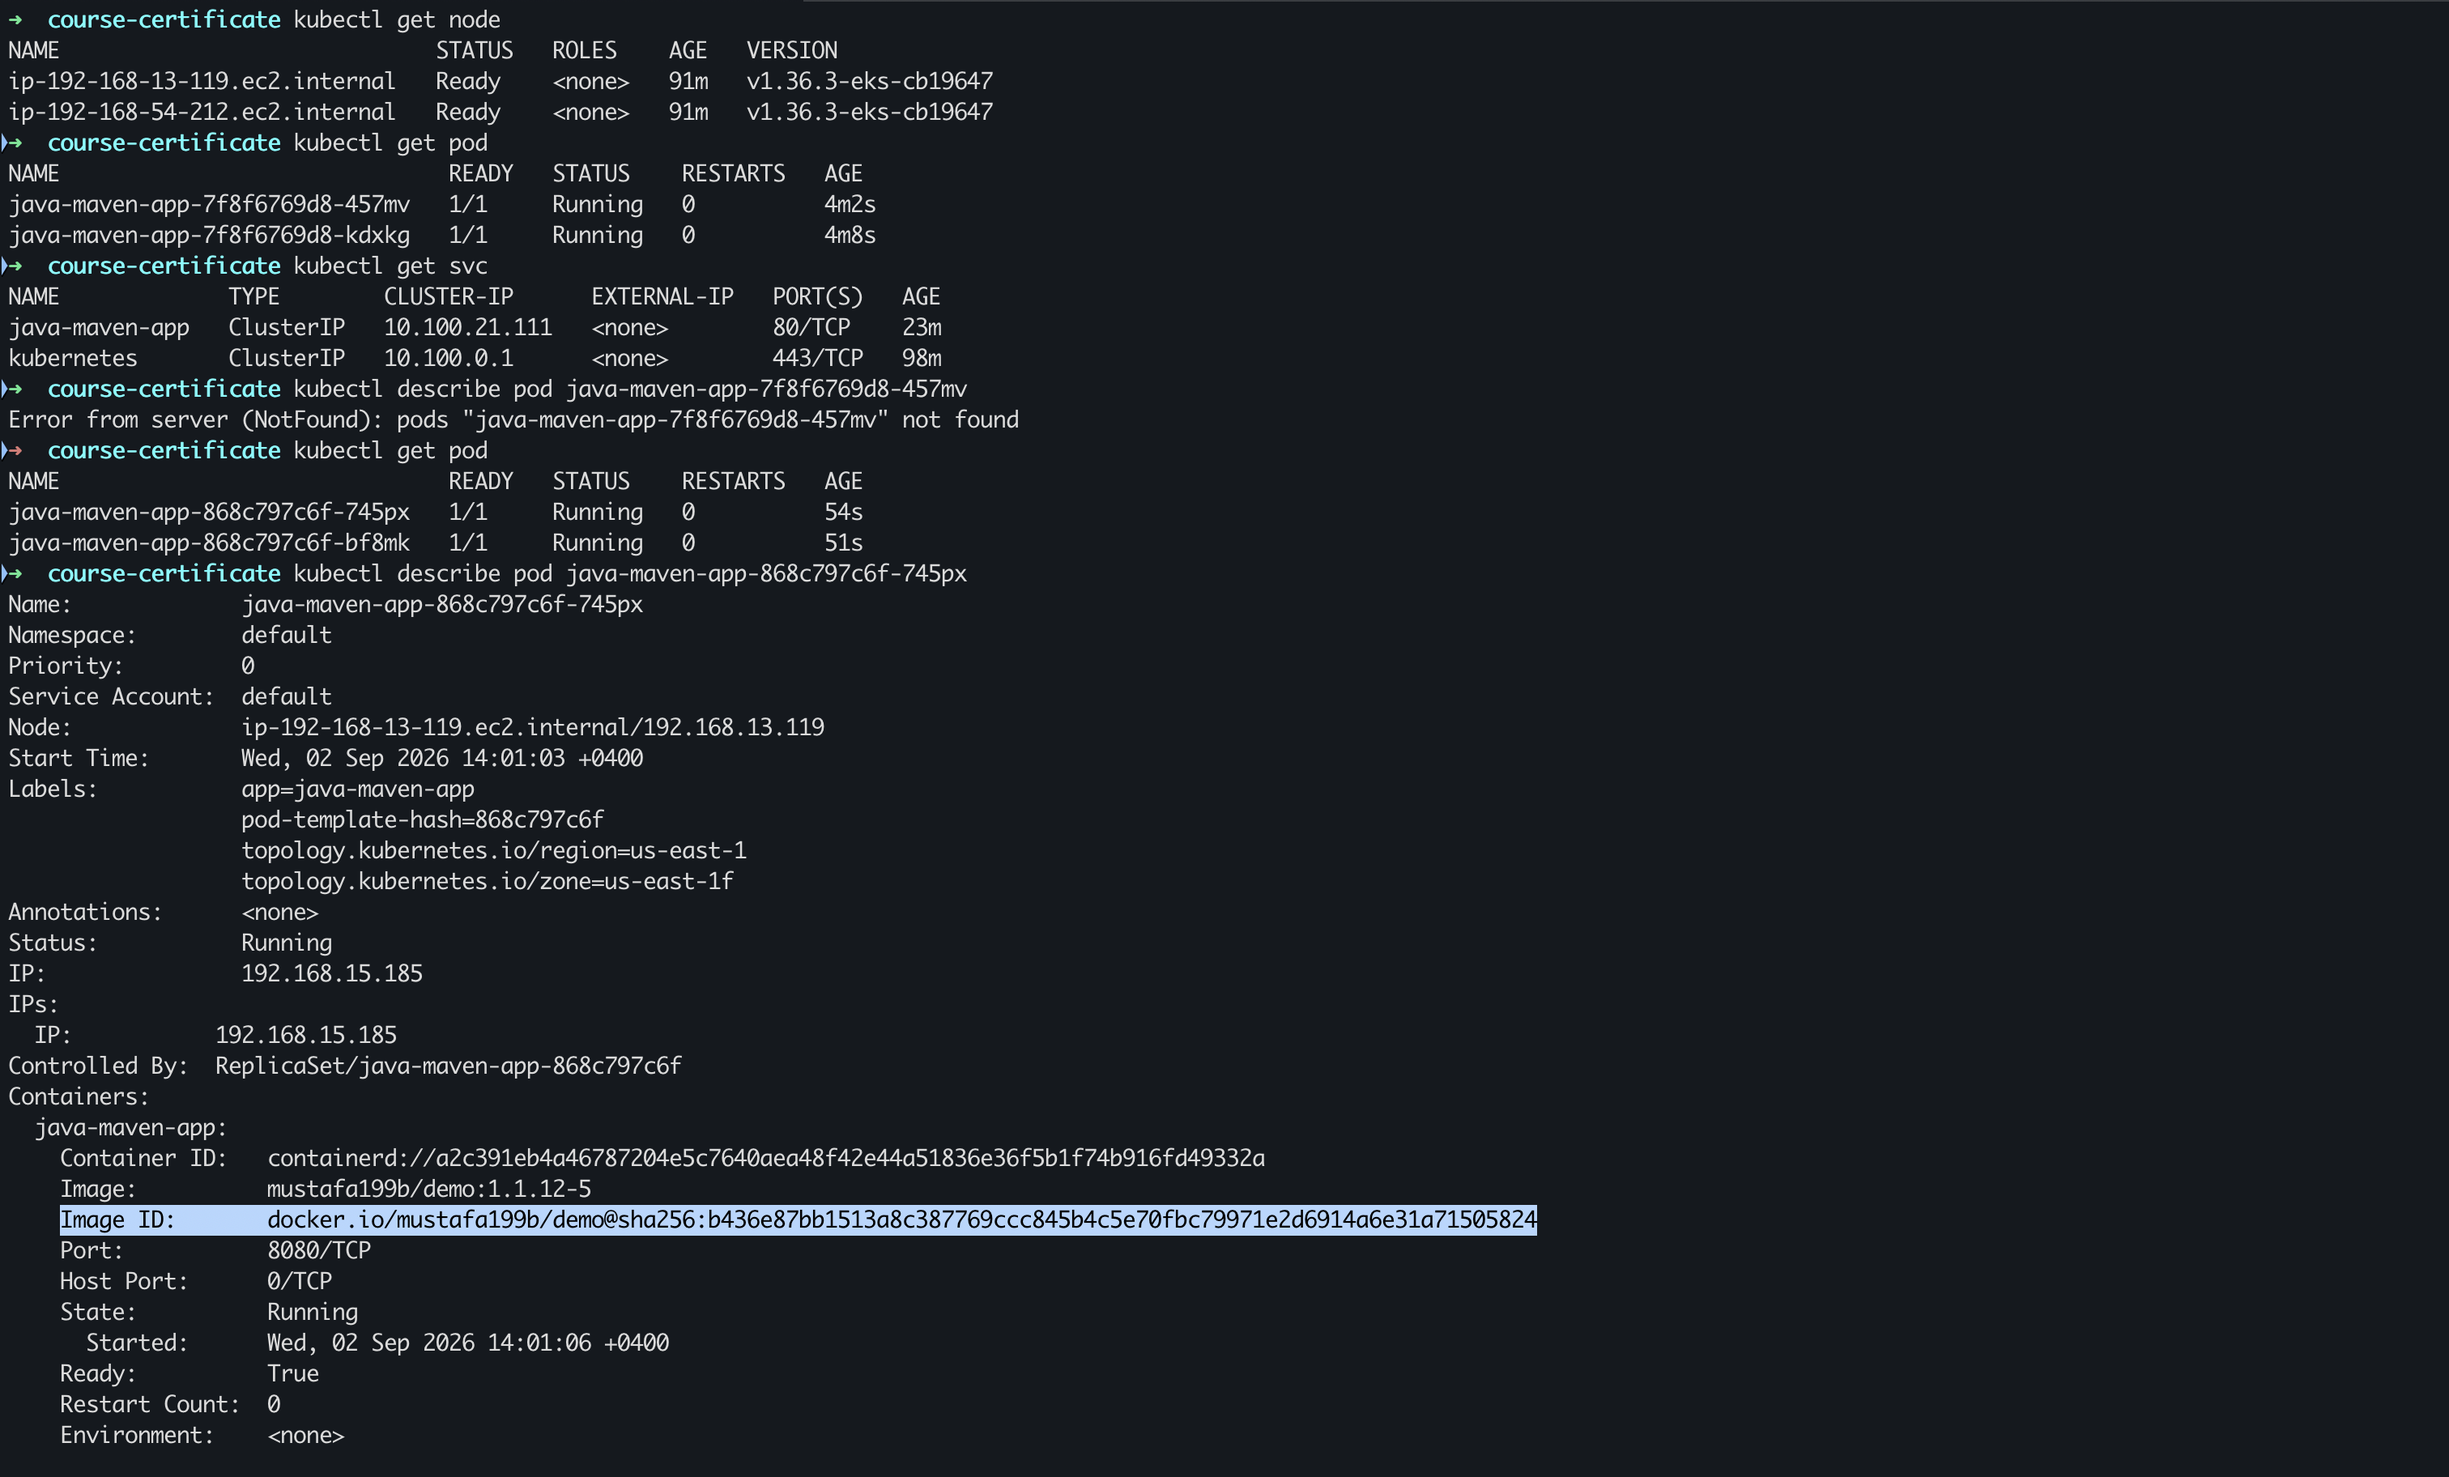
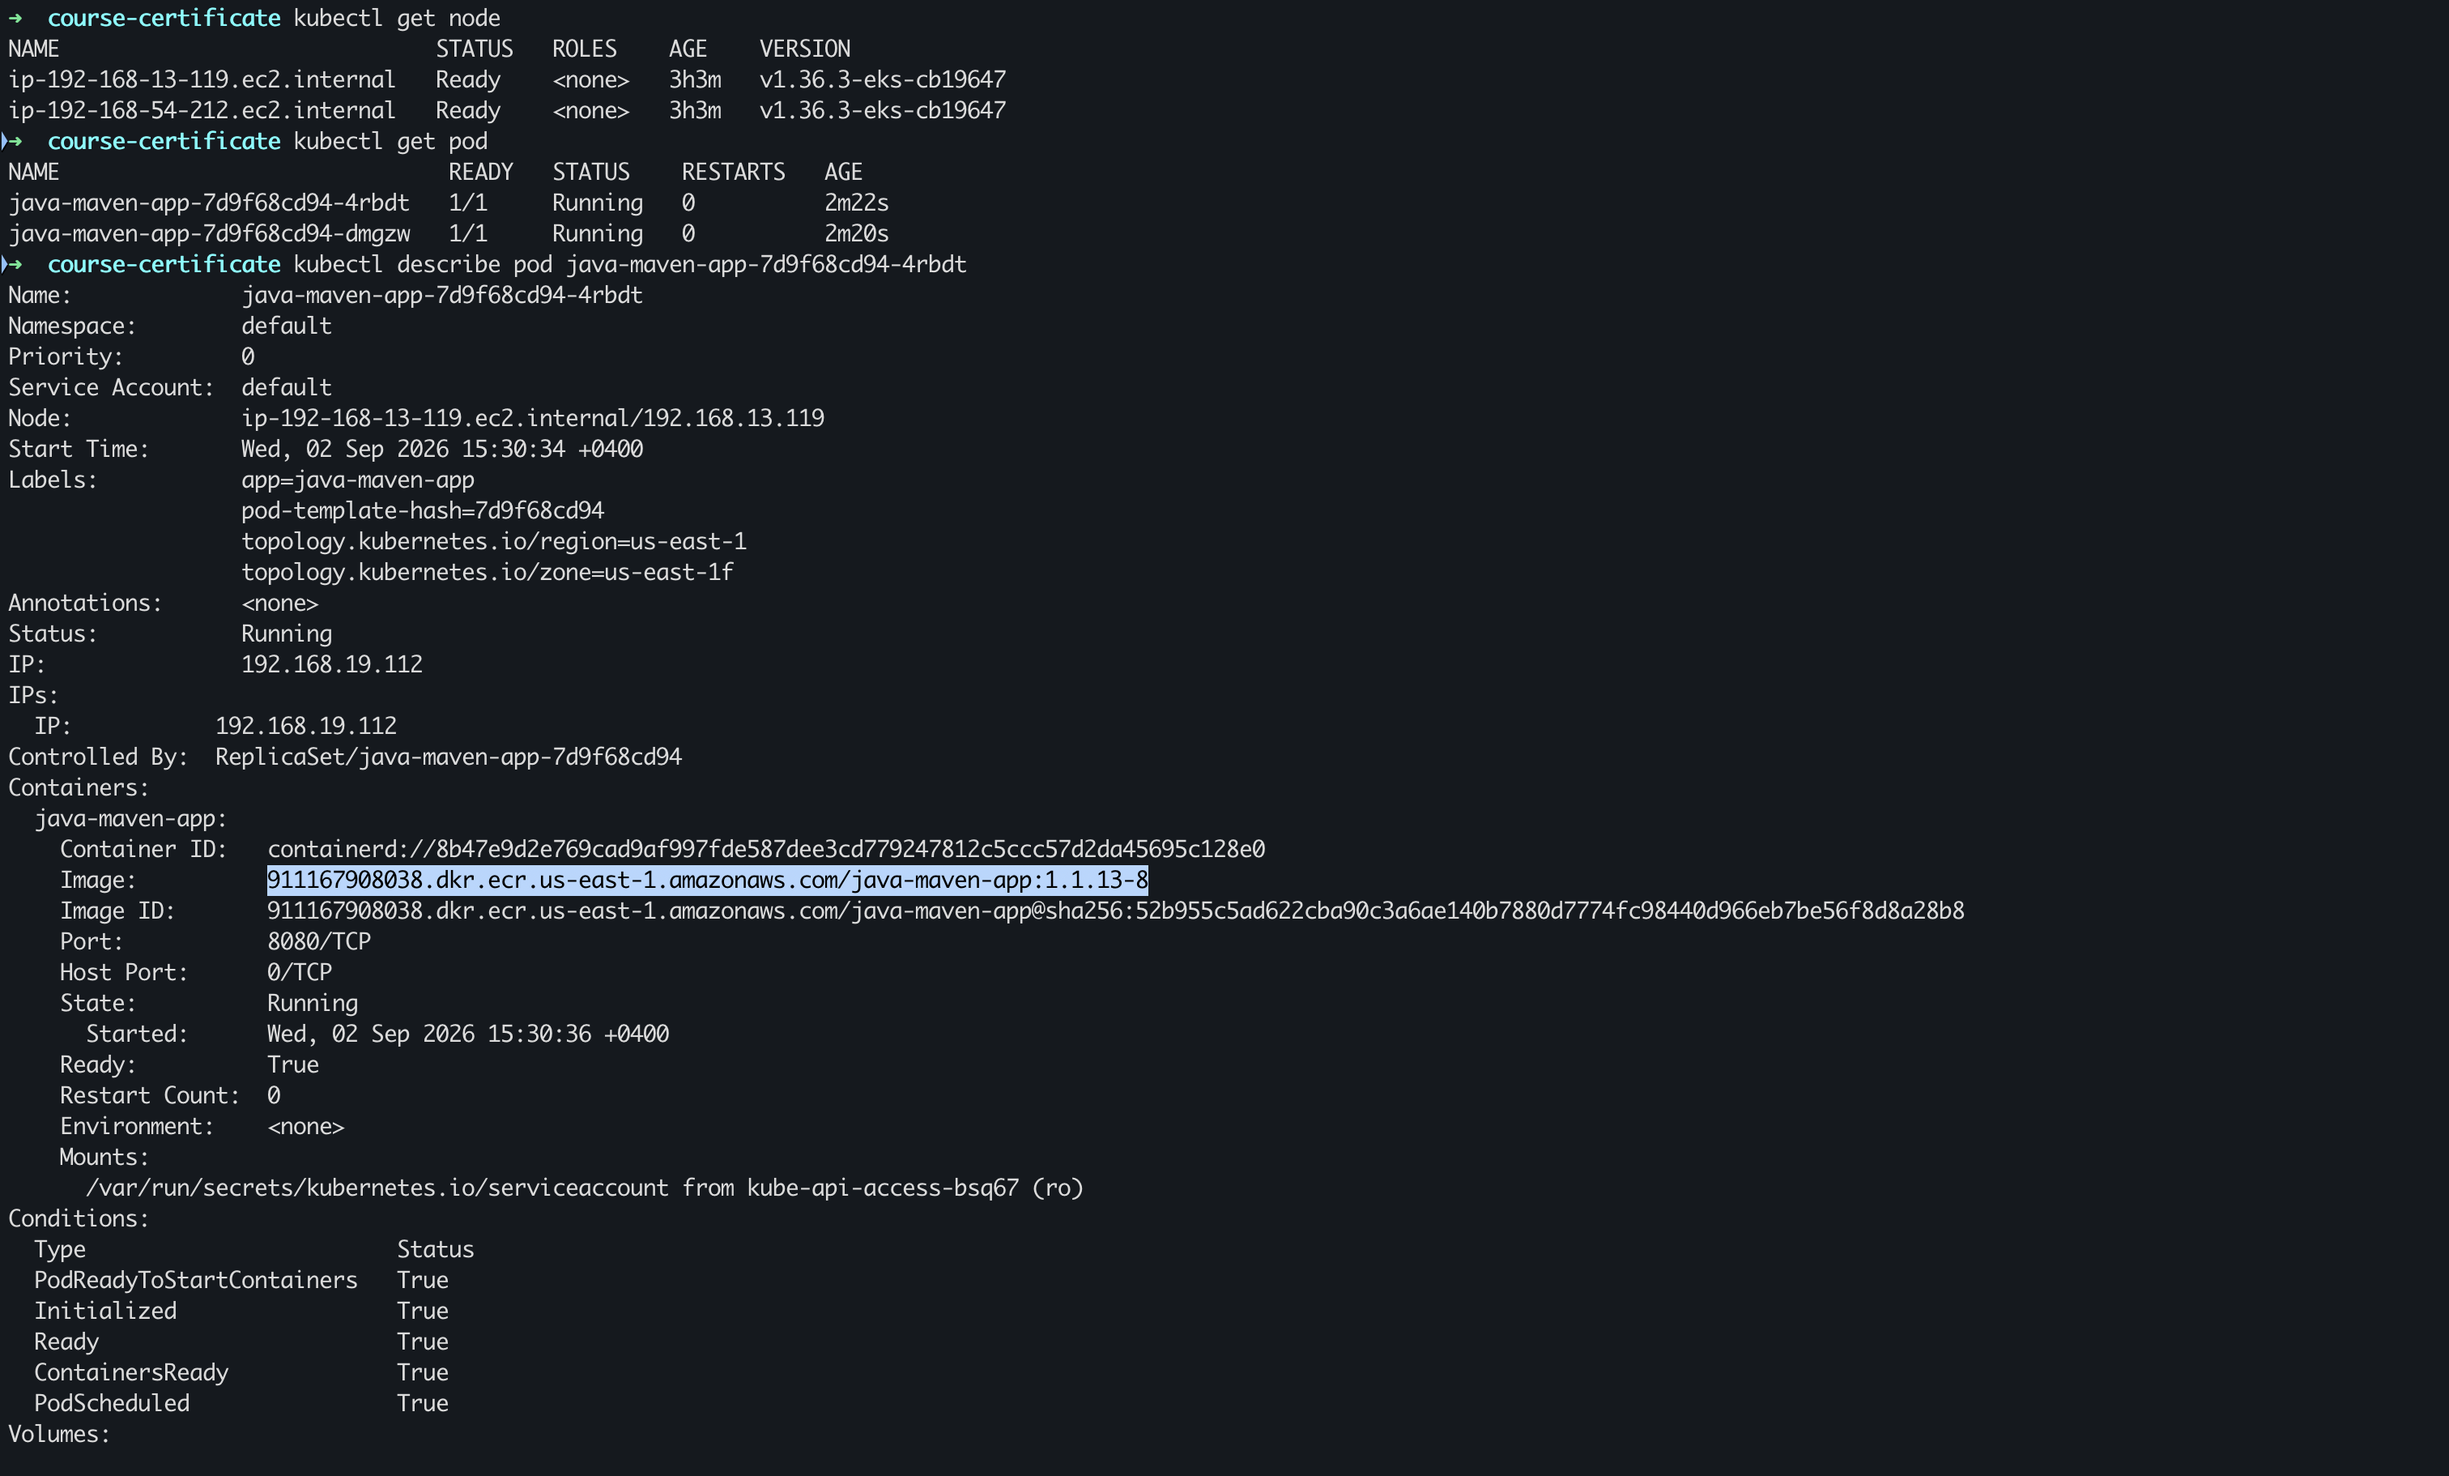
Kubernetes on AWS - Complete CI/CD Pipeline with EKS and AWS ECR Registry

Changed region(s): [[0.0, 0.0, 0.6217, 0.9835], [0.6528, 0.6147, 0.7771, 0.6454]]

diff --git a/README.md b/README.md
@@ -1,6 +1,6 @@
-# Kubernetes on AWS - Complete CI/CD Pipeline with EKS and Private DockerHub Registry
+# Kubernetes on AWS - Complete CI/CD Pipeline with EKS and AWS ECR Registry
 
-This repository demonstrates an end-to-end CI/CD workflow for a Java Maven application deployed to Amazon EKS from Jenkins, while storing release images in a private Docker Hub repository.
+This repository demonstrates an end-to-end CI/CD workflow for a Java Maven application deployed to Amazon EKS from Jenkins, while storing release images in a private AWS ECR repository.
 
 ## Overview
 
@@ -10,7 +10,7 @@ Amazon Elastic Kubernetes Service (Amazon EKS) is a managed Kubernetes service t
 
 Jenkins is a self-contained, open-source automation server used to automate building, testing, and delivering/deploying software through repeatable pipelines.
 
-A Docker Hub private repository is a restricted-access image repository used to store, manage, and version container images so only authorized users/systems can pull and push them.
+Amazon Elastic Container Registry (ECR) is a fully managed AWS container image registry used to store, manage, scan, and version private Docker/OCI images for secure deployments.
 
 In this project, Jenkins performs version bumping, application build, Docker image build/push, Kubernetes deployment to EKS, and pushes version updates back to GitHub. 🚀
 
@@ -23,14 +23,14 @@ In this project, Jenkins performs version bumping, application build, Docker ima
 
 ## Demo Project
 
-Complete CI/CD Pipeline with EKS and private DockerHub registry
+Complete CI/CD Pipeline with EKS and AWS ECR
 
 ## Technologies used
 
 - Kubernetes
 - Jenkins
 - AWS EKS
-- Docker Hub
+- AWS ECR
 - Java
 - Maven
 - Linux
@@ -39,12 +39,13 @@ Complete CI/CD Pipeline with EKS and private DockerHub registry
 
 ## Project Description
 
-- Write K8s manifest files for Deployment and Service configuration
-- Integrate deploy step in the CI/CD pipeline to deploy newly built application image from DockerHub private registry to the EKS cluster
+- Create private AWS ECR Docker repository
+- Adjust Jenkinsfile to build and push Docker image to AWS ECR
+- Integrate deploying to K8s cluster in the CI/CD pipeline from AWS ECR private registry
 - So the complete CI/CD project we build has the following configuration:
     - a. CI step: Increment version
     - b. CI step: Build artifact for Java Maven application
-    - c. CI step: Build and push Docker image to DockerHub
+    - c. CI step: Build and push Docker image to AWS ECR
     - d. CD step: Deploy new application version to EKS cluster
     - e. CD step: Commit the version update
 
@@ -56,6 +57,7 @@ Complete CI/CD Pipeline with EKS and private DockerHub registry
 ├── Jenkinsfile
 ├── README.md
 ├── images/
+│   ├── aws-ecr-image-console.png
 │   ├── eksctl-cluster-cloudformation-stacks-console.png
 │   ├── eksctl-cluster-create-terminal.png
 │   ├── eksctl-cluster-nodes-console.png
@@ -78,7 +80,7 @@ Complete CI/CD Pipeline with EKS and private DockerHub registry
 flowchart LR
     Dev[Developer Pushes Code to GitHub] --> Jenkins[Jenkins Multibranch Pipeline]
     Jenkins -->|mvn clean package| Artifact[Java JAR Artifact]
-    Jenkins -->|docker build + docker push| DockerHub[Private Docker Hub Repository]
+    Jenkins -->|docker build + docker push| ECR[Private AWS ECR Repository]
     Jenkins -->|kubectl apply with envsubst| EKS[Amazon EKS Cluster]
     EKS --> Deployment[Kubernetes Deployment]
     Deployment --> Pods[Java Maven App Pods]
@@ -89,7 +91,7 @@ flowchart LR
 
 - Jenkins checks out the branch and increments Maven version.
 - Jenkins builds the application JAR and container image.
-- Jenkins authenticates to Docker Hub and pushes a versioned image tag.
+- Jenkins authenticates to AWS ECR and pushes a versioned image tag.
 - Jenkins authenticates to EKS with AWS credentials and kubeconfig.
 - Jenkins applies Deployment and Service manifests to roll out the new version.
 - Kubernetes pulls the private image using imagePullSecrets.
@@ -254,13 +256,30 @@ jenkins_aws_access_key_id
 jenkins-aws_secret_access_key
 ```
 
-Add Docker Hub credentials in Jenkins as username/password (used by pipeline ID: docker-hub-credentials).
+Create private AWS ECR repository "java-maven-app" and add Jenkins credentials for ECR as username/password:
 
-Create Kubernetes image pull secret to allow private Docker Hub pulls:
+- credential ID: ecr-credentials
+- username: AWS
+- password: ECR login password
+
+Screenshot:
+
+![AWS ECR repository image view](images/aws-ecr-image-console.png)
+
+Generate ECR login password and authenticate:
+
+```bash
+# get ecr-password, valid for 12 hours
+aws ecr get-login-password --region region
+
+aws ecr get-login-password --region region | docker login --username AWS --password-stdin aws_account_id.dkr.ecr.region.amazonaws.com
+```
+
+Create a secret in k8s to connect to ECR & pull the image:
 
 ```bash
 kubectl create secret docker-registry aws-registry-key \
---docker-server=docker.io \
+--docker-server=aws_account_id.dkr.ecr.region.amazonaws.com \
 --docker-username= \
 --docker-password=
 
@@ -279,7 +298,7 @@ Pipeline stages implemented in this repository:
 
 - Increment version in pom.xml
 - Build Java artifact with Maven
-- Build and push Docker image to private Docker Hub
+- Build and push Docker image to private AWS ECR
 - Deploy manifests to EKS using kubectl + envsubst
 - Commit version bump back to remote branch
 
@@ -294,8 +313,8 @@ pipeline {
         maven 'Maven'
     }
     environment {
-        DOCKER_REPO_SERVER = 'docker.io'
-        DOCKER_REPO = 'mustafa199b/demo'
+        DOCKER_REPO_SERVER = '911167908038.dkr.ecr.us-east-1.amazonaws.com'
+        DOCKER_REPO = "${DOCKER_REPO_SERVER}/java-maven-app"
     }
     stages {
         stage('increment version') {
@@ -323,7 +342,7 @@ pipeline {
             steps {
                 script {
                     echo "building the docker image..."
-                    withCredentials([usernamePassword(credentialsId: 'docker-hub-credentials', passwordVariable: 'PASS', usernameVariable: 'USER')]){
+                    withCredentials([usernamePassword(credentialsId: 'ecr-credentials', passwordVariable: 'PASS', usernameVariable: 'USER')]){
                         sh "docker build -t ${DOCKER_REPO}:${IMAGE_NAME} ."
                         sh "echo $PASS | docker login -u $USER --password-stdin ${DOCKER_REPO_SERVER}"
                         sh "docker push ${DOCKER_REPO}:${IMAGE_NAME}"
@@ -349,7 +368,7 @@ pipeline {
             steps {
                 script {
                     withCredentials([usernamePassword(credentialsId: 'github-credentials', passwordVariable: 'PASS', usernameVariable: 'USER')]){
-                        sh "git remote set-url origin https://${USER}:${PASS}@github.com/mustafa-saleh/kubernetes-aws-complete-ci-cd-pipeline-with-eks-and-private-dockerhub-registry.git"
+                        sh "git remote set-url origin https://${USER}:${PASS}@github.com/mustafa-saleh/kubernetes-aws-complete-ci-cd-pipeline-with-eks-and-aws-ecr.git"
                         sh 'git add .'
                         sh 'git commit -m "ci: version bump"'
                         sh 'git push origin HEAD:jenkins-jobs'
@@ -424,7 +443,7 @@ kubectl get pod
 
 kubectl get service
 
-# check the image registry is docker hub
+# check the image registry is ECR
 kubectl describe pod <pod-name>
 ```
 
@@ -441,10 +460,10 @@ kubectl logs <pod-name>
 
 - EKS cluster provisioning with eksctl is fast, but production readiness still depends on IAM, networking, and access design.
 - Running Jenkins in a container requires explicit installation of kubectl, aws-iam-authenticator, and envsubst to support Kubernetes CD.
-- Private Docker Hub integration requires both CI-side push credentials and cluster-side imagePullSecrets.
+- Private ECR integration requires both CI-side push credentials and cluster-side imagePullSecrets.
 - Parameterized Kubernetes manifests plus envsubst reduce duplication and enforce consistent release behavior.
 - Version bumping inside CI creates traceability between source version, image tag, Jenkins build number, and deployed workload.
-- Credential scoping in Jenkins (AWS, Docker Hub, GitHub) is critical for secure automation and least-privilege access.
+- Credential scoping in Jenkins (AWS, ECR, GitHub) is critical for secure automation and least-privilege access.
 
 ## Final result
 
@@ -452,7 +471,7 @@ The pipeline in this repository successfully executes a full CI/CD cycle. ✅
 
 - Increments Maven version
 - Builds and tests the Java application
-- Builds and pushes a private Docker Hub image
+- Builds and pushes a private AWS ECR image
 - Deploys the new image to Amazon EKS
 - Commits version updates back to GitHub branch
 
@@ -469,5 +488,5 @@ Evidence screenshots:
 - eksctl: https://github.com/eksctl-io/eksctl
 - kubectl install docs: https://kubernetes.io/docs/tasks/tools/
 - Jenkins documentation: https://www.jenkins.io/doc/
-- Docker Hub repositories: https://docs.docker.com/docker-hub/repos/
+- Amazon ECR user guide: https://docs.aws.amazon.com/AmazonECR/latest/userguide/what-is-ecr.html
 
